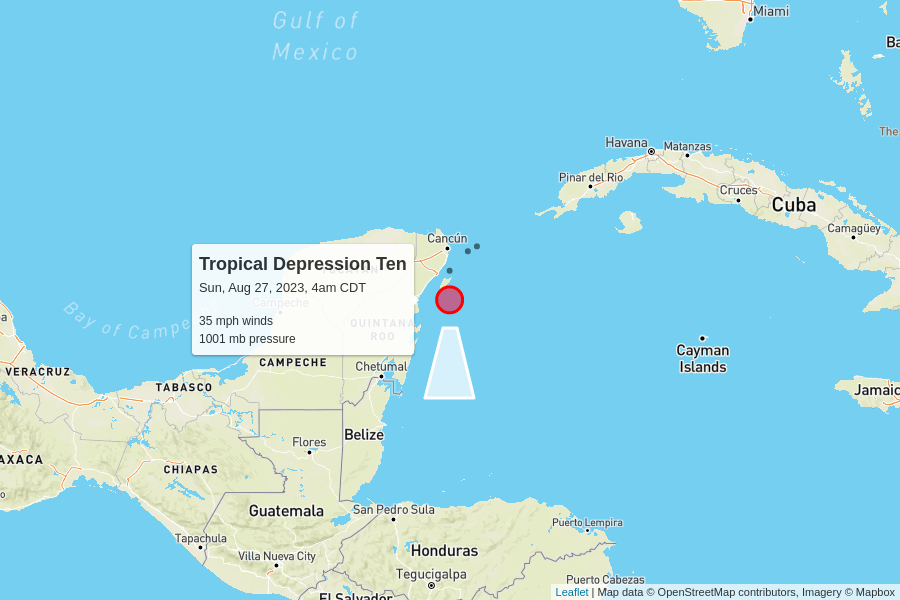
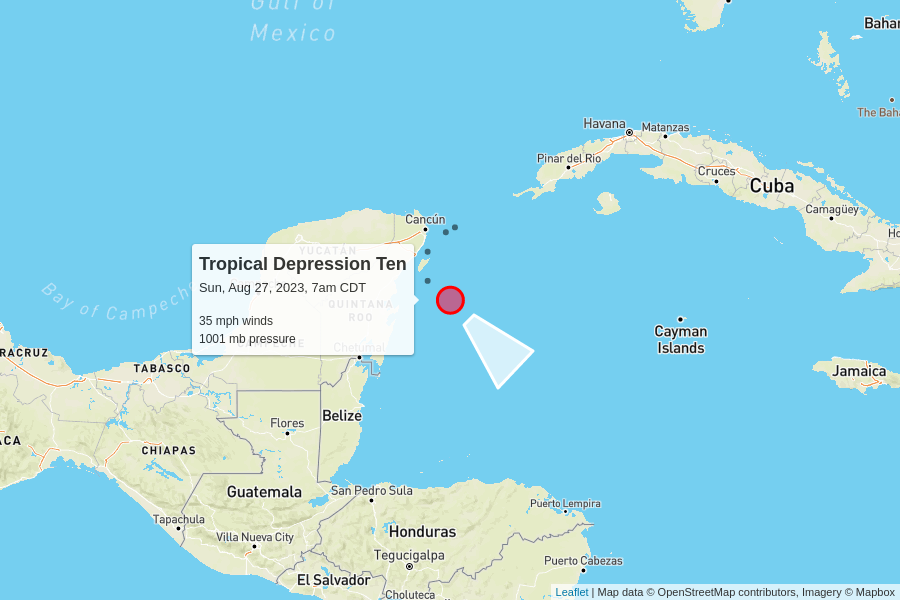
automatic update

diff --git a/docs/index.html b/docs/index.html
@@ -97,6 +97,50 @@
 
     <table>
       <tr>
+        <td colspan="6" class="storm category-0" >
+          <h2>
+            Tropical Depression Ten
+            <p class="updated">last updated <span data-time>2023-08-27T12:00:00.000Z</span></p>
+          </h2>
+        </td>
+      </tr>
+      
+      <tr>
+        <th class="spacer"></th>
+        <th>wind speed</th>
+        <th>central pressure</th>
+        <th>movement</th>
+        <th>data (CSV)</th>
+        <th>National Hurricane Center</th>
+      </tr>
+      <tr>
+        <td class="spacer"></td>
+        <td>35 mph</td>
+        <td>1001 mb</td>
+        <td>
+          5 mph to the southeast
+          <br/>
+          <span style="display: inline-block; font-size: 1.5em; transform: rotate(135deg);">↑</span>
+        </td>
+        <td><a href="https://raw.githubusercontent.com/mgwalker/atlantic-hurricanes/main/data/csv/AL102023.csv">AL102023.csv</a></td>
+        <td><a href="https://www.nhc.noaa.gov/archive/2023/TEN.shtml?">NHC advisories</a></td>
+      </tr>
+      <tr id="storm_AL102023" >
+        <td class="spacer">
+        <td colspan="5">
+          <figure>
+            <img src="AL102023.png">
+            <figcaption>
+              Map data &copy; <a href="https://www.openstreetmap.org/copyright">OpenStreetMap</a> contributors,
+              Imagery &copy; <a href="https://www.mapbox.com/">Mapbox</a> |
+              <a href="https://www.mapbox.com/map-feedback/" target="_blank">Improve this map</a>
+            </figcaption>
+          </figure>
+        </td>
+      </tr>
+      
+
+      <tr>
         <td colspan="6" class="storm category-1" >
           <h2>
             Hurricane Franklin - Category 1
@@ -130,50 +174,6 @@
         <td colspan="5">
           <figure>
             <img src="AL082023.png">
-            <figcaption>
-              Map data &copy; <a href="https://www.openstreetmap.org/copyright">OpenStreetMap</a> contributors,
-              Imagery &copy; <a href="https://www.mapbox.com/">Mapbox</a> |
-              <a href="https://www.mapbox.com/map-feedback/" target="_blank">Improve this map</a>
-            </figcaption>
-          </figure>
-        </td>
-      </tr>
-      
-
-      <tr>
-        <td colspan="6" class="storm category-0" >
-          <h2>
-            Tropical Depression Ten
-            <p class="updated">last updated <span data-time>2023-08-27T09:00:00.000Z</span></p>
-          </h2>
-        </td>
-      </tr>
-      
-      <tr>
-        <th class="spacer"></th>
-        <th>wind speed</th>
-        <th>central pressure</th>
-        <th>movement</th>
-        <th>data (CSV)</th>
-        <th>National Hurricane Center</th>
-      </tr>
-      <tr>
-        <td class="spacer"></td>
-        <td>35 mph</td>
-        <td>1001 mb</td>
-        <td>
-          5 mph to the south
-          <br/>
-          <span style="display: inline-block; font-size: 1.5em; transform: rotate(180deg);">↑</span>
-        </td>
-        <td><a href="https://raw.githubusercontent.com/mgwalker/atlantic-hurricanes/main/data/csv/AL102023.csv">AL102023.csv</a></td>
-        <td><a href="https://www.nhc.noaa.gov/archive/2023/TEN.shtml?">NHC advisories</a></td>
-      </tr>
-      <tr id="storm_AL102023" >
-        <td class="spacer">
-        <td colspan="5">
-          <figure>
-            <img src="AL102023.png">
             <figcaption>
               Map data &copy; <a href="https://www.openstreetmap.org/copyright">OpenStreetMap</a> contributors,
               Imagery &copy; <a href="https://www.mapbox.com/">Mapbox</a> |
